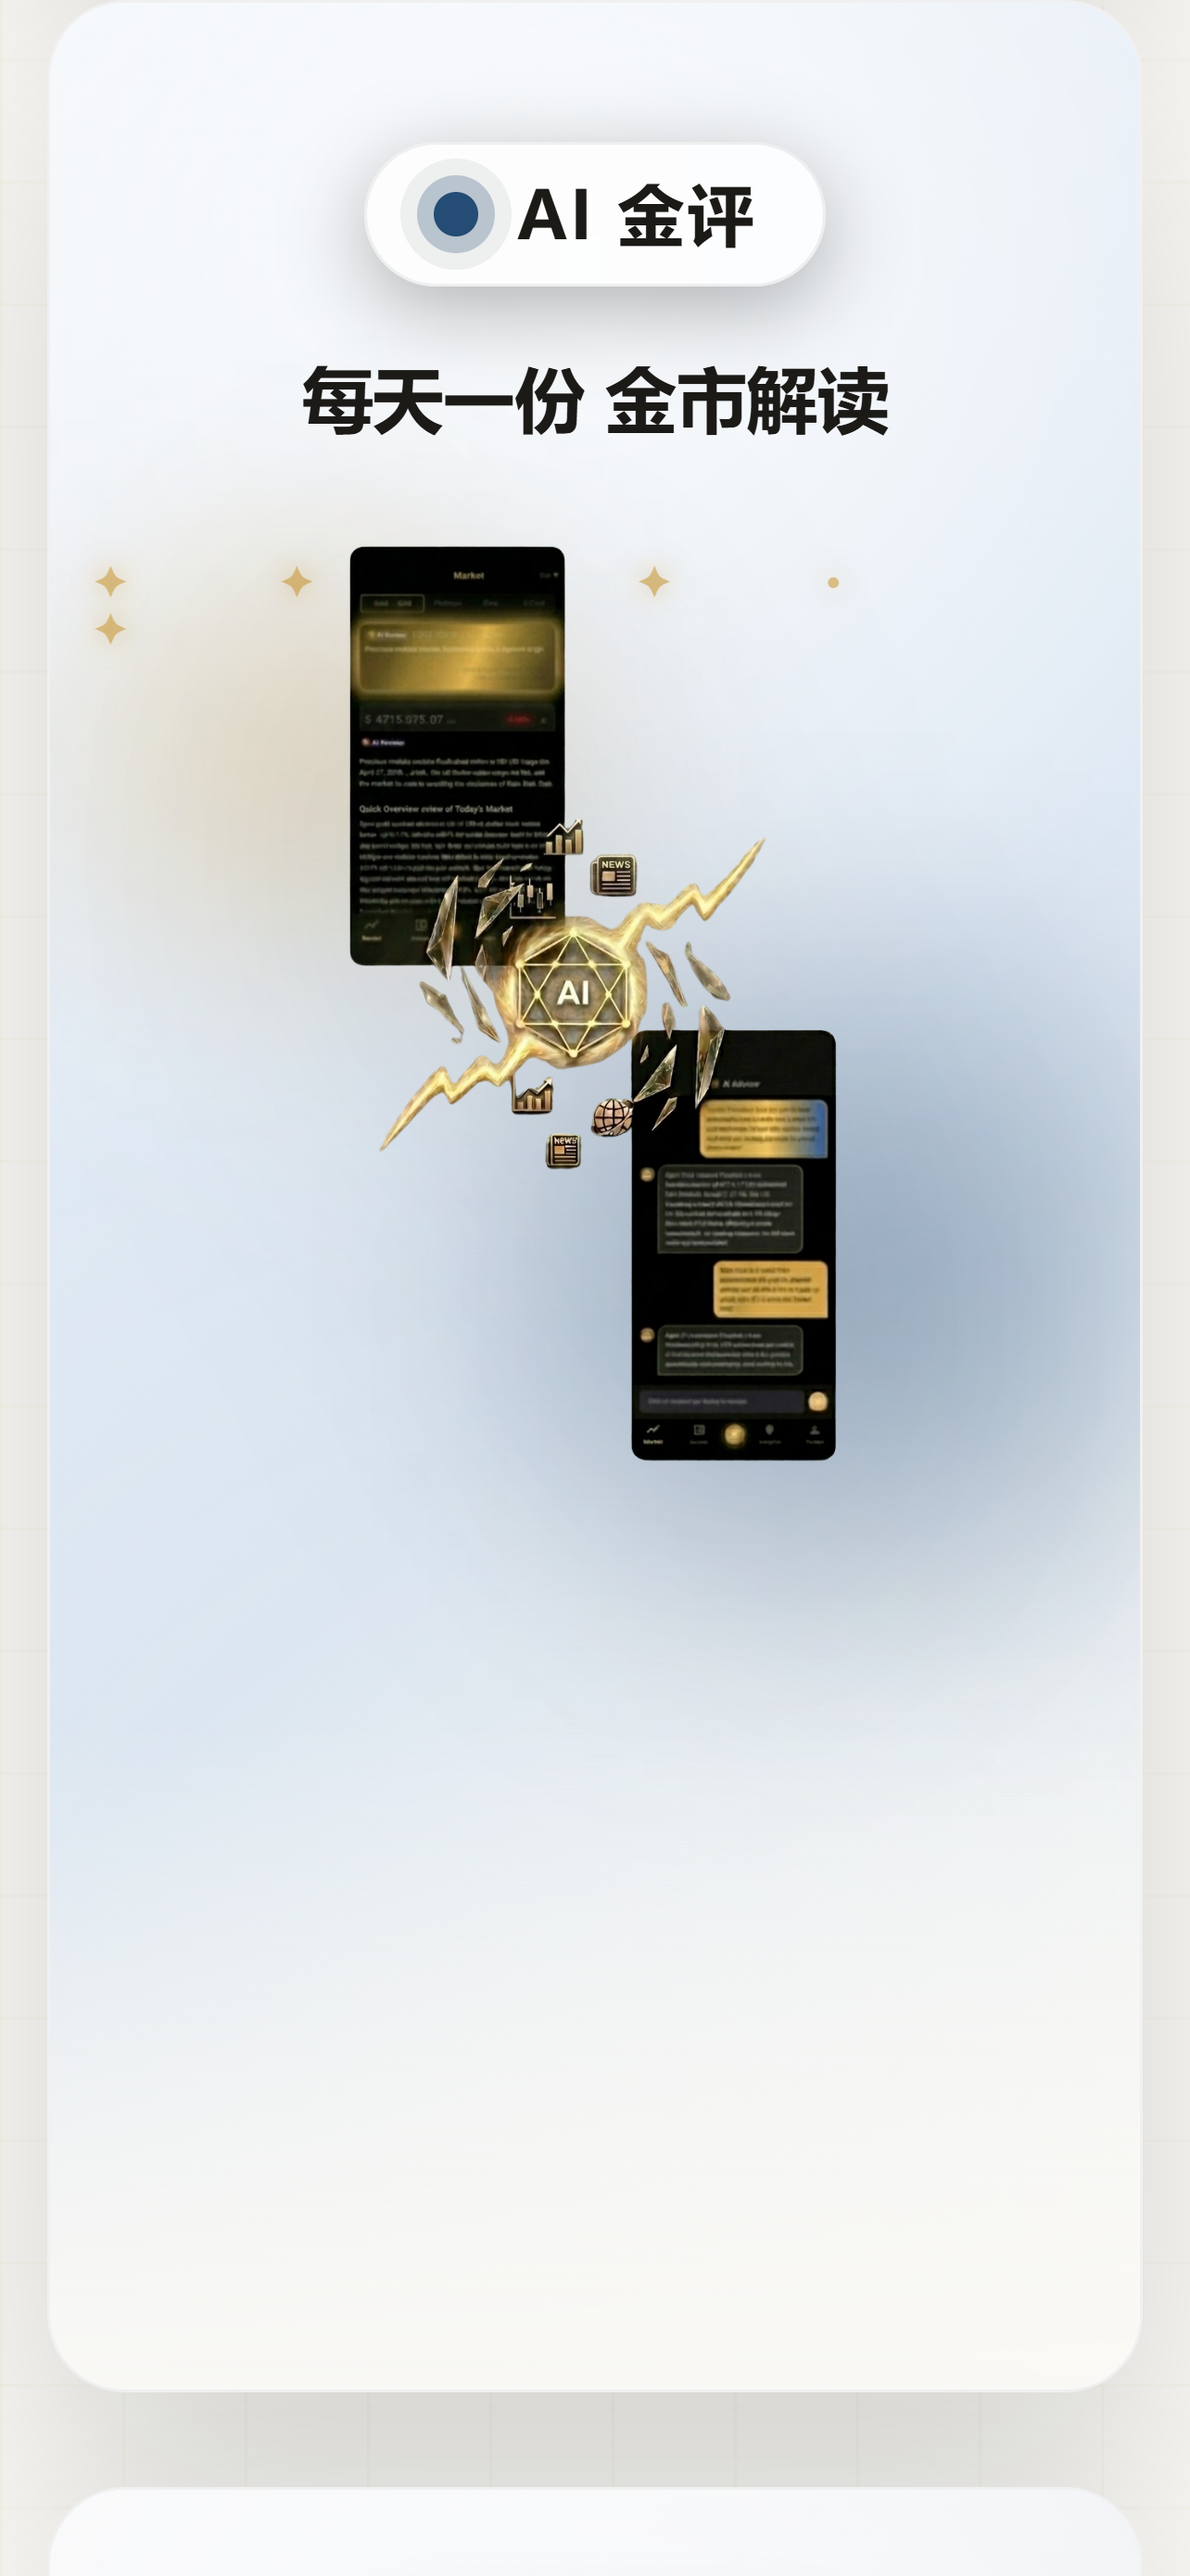
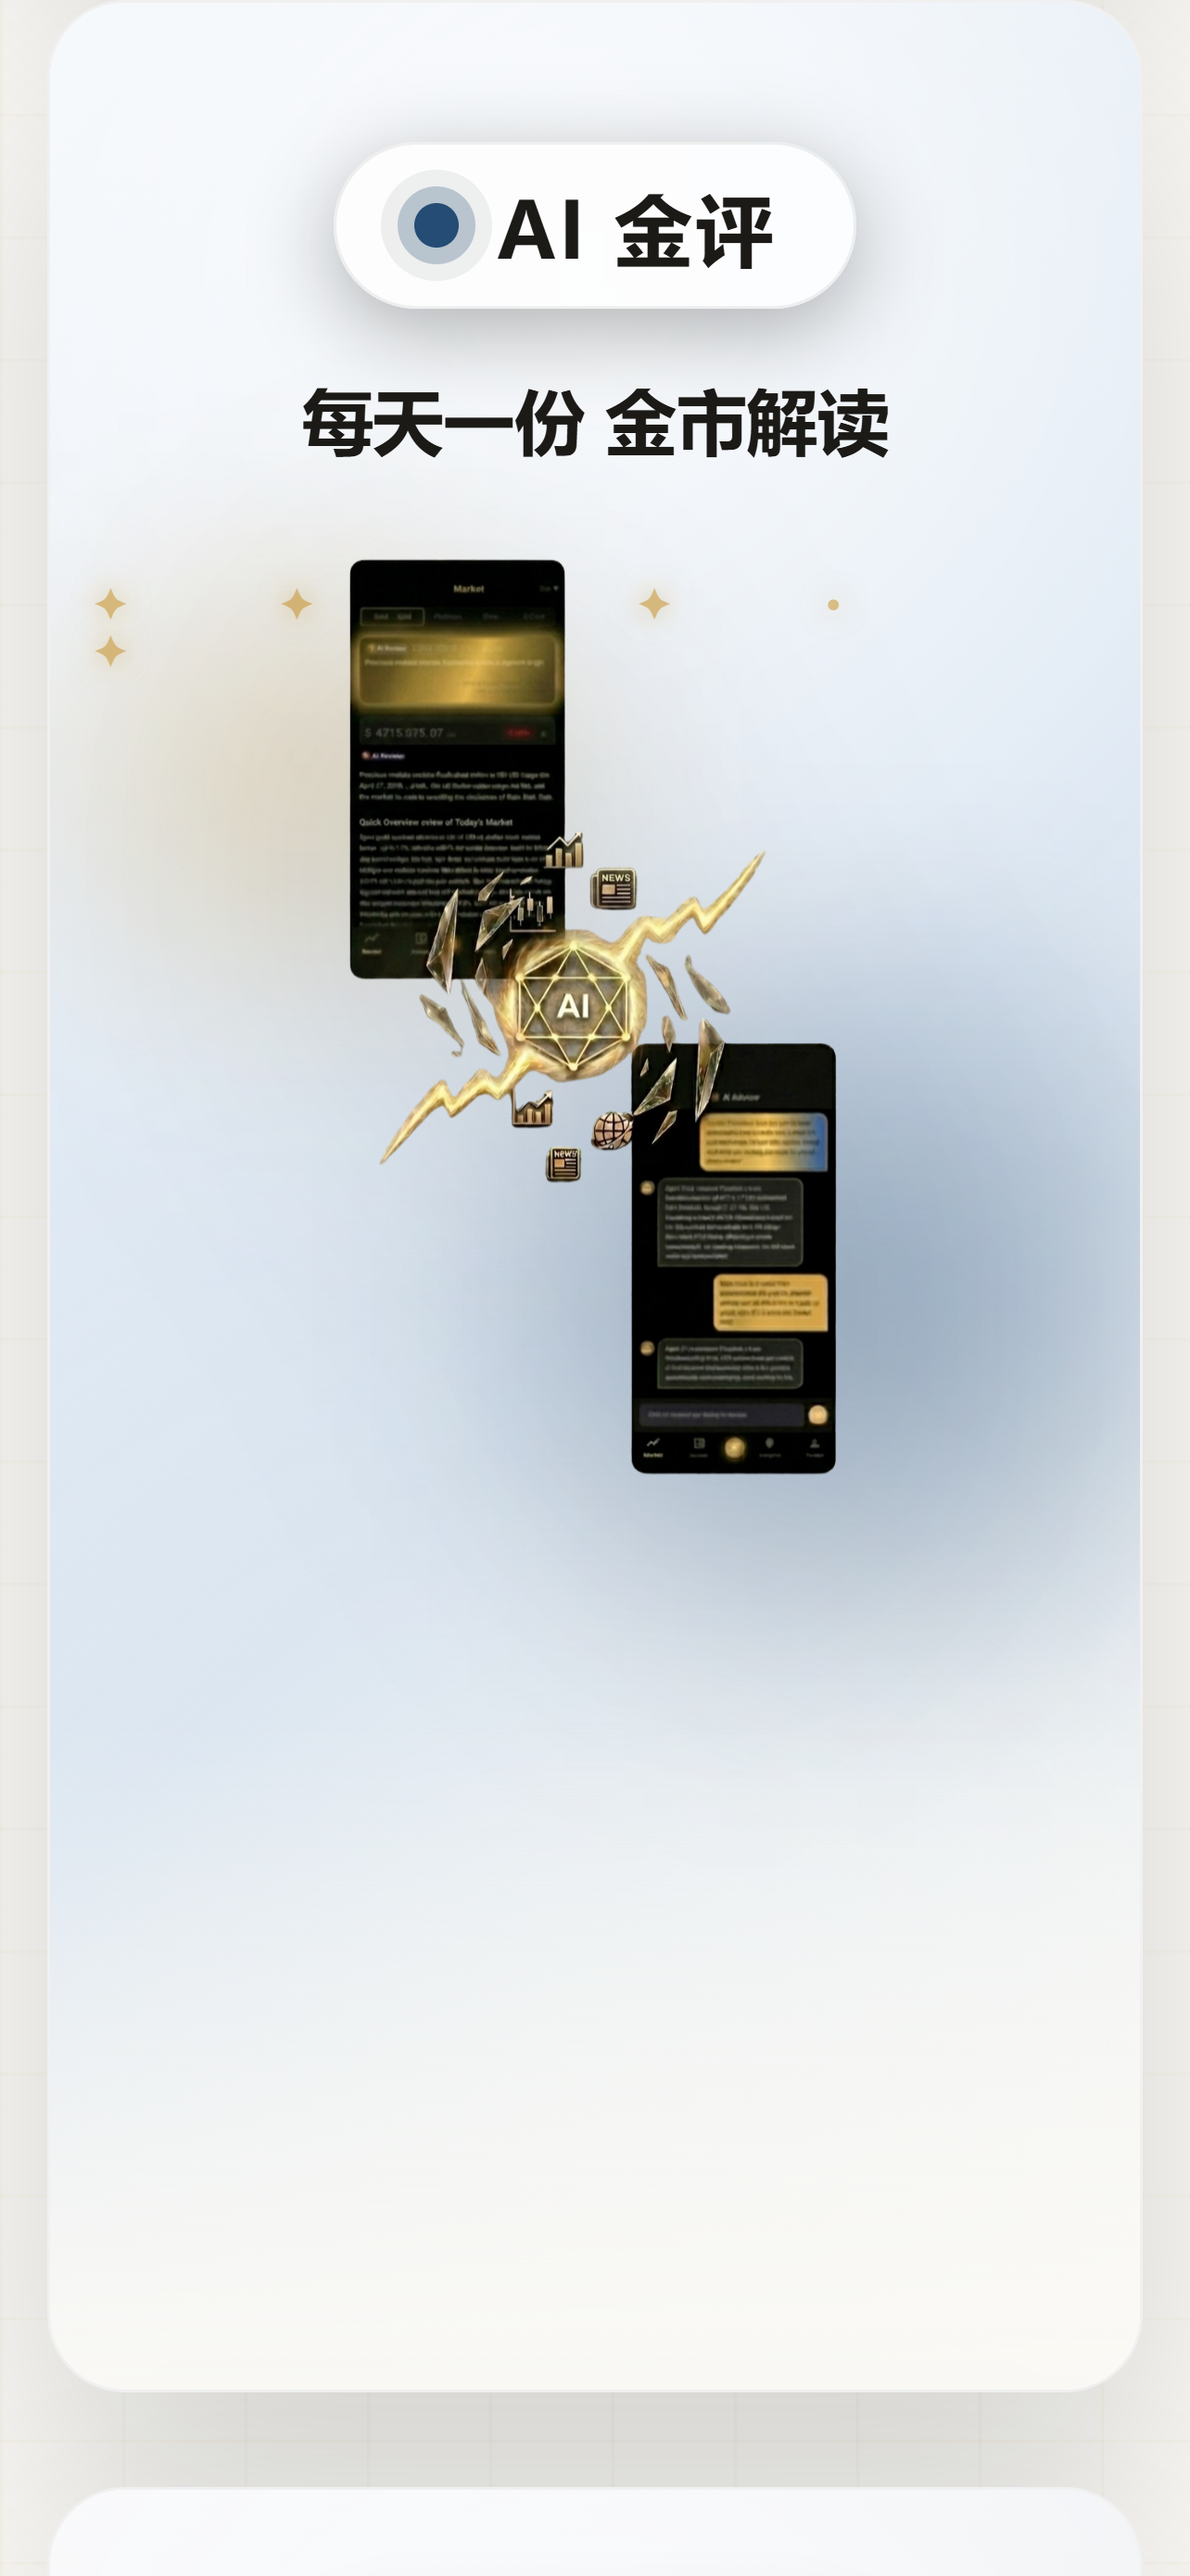
style: specifically enlarge kicker for Chinese

diff --git a/index.html b/index.html
@@ -228,6 +228,13 @@
             box-shadow: 0 8px 30px rgba(0,0,0,0.3);
         }
 
+        /* Specifically enlarge Chinese kicker text */
+        [lang^="zh"] .slide-kicker {
+            font-size: clamp(26px, 4.5vw, 32px);
+            min-height: 64px;
+            padding: 0 28px;
+        }
+
         .slide-kicker::before {
             content: "";
             width: 16px;
@@ -508,6 +515,12 @@
                 padding: 0 24px;
                 margin-bottom: 24px;
                 font-size: 24px;
+            }
+
+            [lang^="zh"] .slide-kicker {
+                min-height: 60px;
+                padding: 0 28px;
+                font-size: 28px;
             }
 
             .slide-copy h2 {
